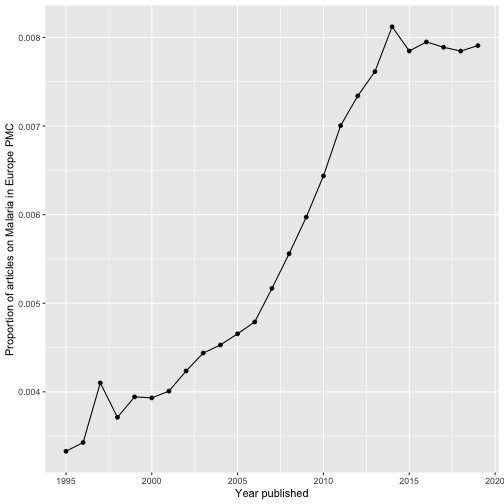
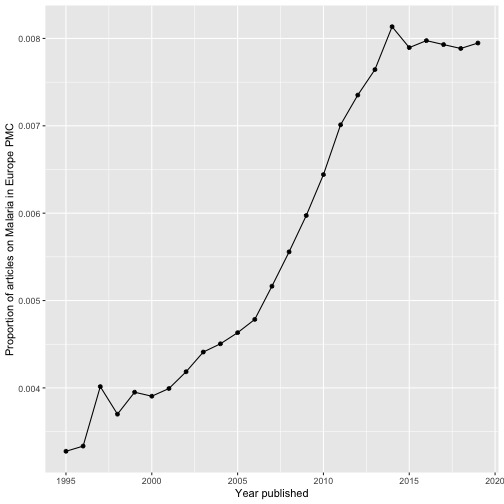
Fix URLs

diff --git a/README.md b/README.md
@@ -7,7 +7,7 @@ europepmc - R Interface to Europe PMC RESTful Web Service
 
 [![R build status](https://github.com/ropensci/europepmc/workflows/R-CMD-check/badge.svg)](https://github.com/ropensci/europepmc/actions)
 [![Build status](https://ci.appveyor.com/api/projects/status/f8xtpvhhr074lk44?svg=true)](https://ci.appveyor.com/project/sckott/europepmc)
-[![codecov.io](https://codecov.io/github/ropensci/europepmc/coverage.svg?branch=master)](https://codecov.io/github/ropensci/europepmc?branch=master)
+[![codecov.io](https://codecov.io/github/ropensci/europepmc/coverage.svg?branch=master)](https://app.codecov.io/github/ropensci/europepmc?branch=master)
 [![cran version](https://www.r-pkg.org/badges/version/europepmc)](https://cran.r-project.org/package=europepmc)
 [![rstudio mirror downloads](https://cranlogs.r-pkg.org/badges/europepmc)](https://github.com/r-hub/cranlogs.app)
 [![](https://badges.ropensci.org/29_status.svg)](https://github.com/ropensci/software-review/issues/29)
@@ -23,7 +23,8 @@ For more infos on Europe PMC, see:
 
 <https://europepmc.org/About>
 
-Levchenko, M., Gou, Y., Graef, F., Hamelers, A., Huang, Z., Ide-Smith, M., … McEntyre, J. (2017). Europe PMC in 2017. Nucleic Acids Research, 46(D1), D1254–D1260. <https://doi.org/10.1093/nar/gkx1005>
+Ferguson, C., Araújo, D., Faulk, L., Gou, Y., Hamelers, A., Huang, Z., 
+Ide-Smith, M., Levchenko, M., Marinos, N., Nambiar, R., Nassar, M., Parkin, M., Pi, X., Rahman, F., Rogers, F., Roochun, Y., Saha, S., Selim, M., Shafique, Z., … McEntyre, J. (2020). Europe PMC in 2020. Nucleic Acids Research, 49(D1), D1507–D1514. <https://doi.org/10.1093/nar/gkaa994>.
 
 ## Implemented API methods
 
@@ -81,25 +82,25 @@ PMC search syntax to `epmc_search()`.
 ```r
 europepmc::epmc_search(query = '"2019-nCoV" OR "2019nCoV"')
 #> # A tibble: 100 × 29
-#>    id       source pmid     doi   title authorString journalTitle issue journalVolume
-#>    <chr>    <chr>  <chr>    <chr> <chr> <chr>        <chr>        <chr> <chr>        
-#>  1 33406042 MED    33406042 10.1… 2019… Xiao M, Liu… IEEE/ACM Tr… 4     18           
-#>  2 34059225 MED    34059225 10.1… Livi… Santillan-G… Med Intensi… 5     45           
-#>  3 34181072 MED    34181072 10.1… Self… Varghese JJ… Support Car… <NA>  <NA>         
-#>  4 34108756 MED    34108756 10.2… COVI… Gabarron E,… Bull World … 6     99           
-#>  5 33197230 MED    33197230 10.2… Sear… Lazarus JV,… J Med Inter… 11    22           
-#>  6 33181701 MED    33181701 10.1… The … Kim YJ, Qia… Medicine (B… 46    99           
-#>  7 34291001 MED    34291001 10.4… How … Moradi G, G… Med J Islam… <NA>  35           
-#>  8 33521188 MED    33521188 10.1… Tota… Chen AZ, Sh… Arthroplast… <NA>  8            
-#>  9 33009914 MED    33009914 10.1… A da… Zhu Z, Meng… Database (O… <NA>  2020         
-#> 10 32341597 MED    32341597 10.1… Obes… Carretero G… Rev Clin Es… 6     220          
-#> # … with 90 more rows, and 20 more variables: pubYear <chr>, journalIssn <chr>,
+#>    id        source pmid     pmcid   doi   title authorString journalTitle issue
+#>    <chr>     <chr>  <chr>    <chr>   <chr> <chr> <chr>        <chr>        <chr>
+#>  1 36754560  MED    36754560 PMC992… 10.1… Inno… Yerlikaya S… BMJ Open     2    
+#>  2 37400836  MED    37400836 PMC103… 10.1… Effe… Ebrahimi T,… BMC Oral He… 1    
+#>  3 37223279  MED    37223279 PMC101… 10.1… Bill… Lamsal R, R… Data Brief   <NA> 
+#>  4 36727245  MED    36727245 PMC101… 10.1… Vasc… Morrissey E… JBI Evid Sy… 5    
+#>  5 37211453  MED    37211453 PMC101… 10.1… Safe… Smith K, He… Vaccine      26   
+#>  6 PPR525786 PPR    <NA>     <NA>    10.1… The … Alihsan B, … <NA>         <NA> 
+#>  7 PPR621660 PPR    <NA>     <NA>    10.1… Safe… Smith K, He… <NA>         <NA> 
+#>  8 36679914  MED    36679914 PMC986… 10.3… The … Cherif YYS,… Vaccines (B… 1    
+#>  9 PPR689808 PPR    <NA>     <NA>    10.2… Perf… MOUNA L, BO… <NA>         <NA> 
+#> 10 37258070  MED    37258070 PMC102… 10.1… Comp… Hui L, Garn… BMJ Open     5    
+#> # ℹ 90 more rows
+#> # ℹ 20 more variables: journalVolume <chr>, pubYear <chr>, journalIssn <chr>,
 #> #   pageInfo <chr>, pubType <chr>, isOpenAccess <chr>, inEPMC <chr>,
 #> #   inPMC <chr>, hasPDF <chr>, hasBook <chr>, hasSuppl <chr>,
 #> #   citedByCount <int>, hasReferences <chr>, hasTextMinedTerms <chr>,
 #> #   hasDbCrossReferences <chr>, hasLabsLinks <chr>,
-#> #   hasTMAccessionNumbers <chr>, firstIndexDate <chr>,
-#> #   firstPublicationDate <chr>, pmcid <chr>, versionNumber <int>
+#> #   hasTMAccessionNumbers <chr>, firstIndexDate <chr>, …
 ```
 
 Be aware that Europe PMC expands queries with MeSH synonyms by default. You can turn this behavior off using the `synonym = FALSE` parameter.
@@ -121,17 +122,17 @@ tt_oa
 #> # A tibble: 25 × 3
 #>     year all_hits query_hits
 #>    <int>    <dbl>      <dbl>
-#>  1  1995   449064       1495
-#>  2  1996   458526       1572
-#>  3  1997   456744       1873
-#>  4  1998   474613       1762
-#>  5  1999   493745       1947
-#>  6  2000   532019       2092
-#>  7  2001   545674       2187
-#>  8  2002   561425       2378
-#>  9  2003   588572       2612
-#> 10  2004   628141       2845
-#> # … with 15 more rows
+#>  1  1995   449216       1471
+#>  2  1996   458644       1529
+#>  3  1997   456805       1834
+#>  4  1998   474695       1756
+#>  5  1999   493837       1951
+#>  6  2000   532142       2078
+#>  7  2001   545709       2179
+#>  8  2002   561496       2350
+#>  9  2003   588612       2596
+#> 10  2004   628192       2830
+#> # ℹ 15 more rows
 # we use ggplot2 for plotting the graph
 library(ggplot2)
 ggplot(tt_oa, aes(year, query_hits / all_hits)) + 
@@ -172,7 +173,7 @@ The package maintainer, Chris Stubben (@cstubben), has also created an Shiny App
 
 - use rOpenSci's `oai` to get metadata and full text via Europe PMC's OAI interface: <https://github.com/ropensci/oai>
 - use rOpenSci's `rentrez` to interact with [NCBI databases](https://www.ncbi.nlm.nih.gov/) such as PubMed: <https://github.com/ropensci/rentrez>
-- rOpenSci's `fulltext` package gives access to supplementary material of open access life-science publications in Europe PMC: <https://github.com/ropensci/fulltext>
+- rOpenSci's `fulltext` package gives access to supplementary material of open access life-science publications in Europe PMC: <https://github.com/ropensci-archive/fulltext>
 
 ## Meta
 
